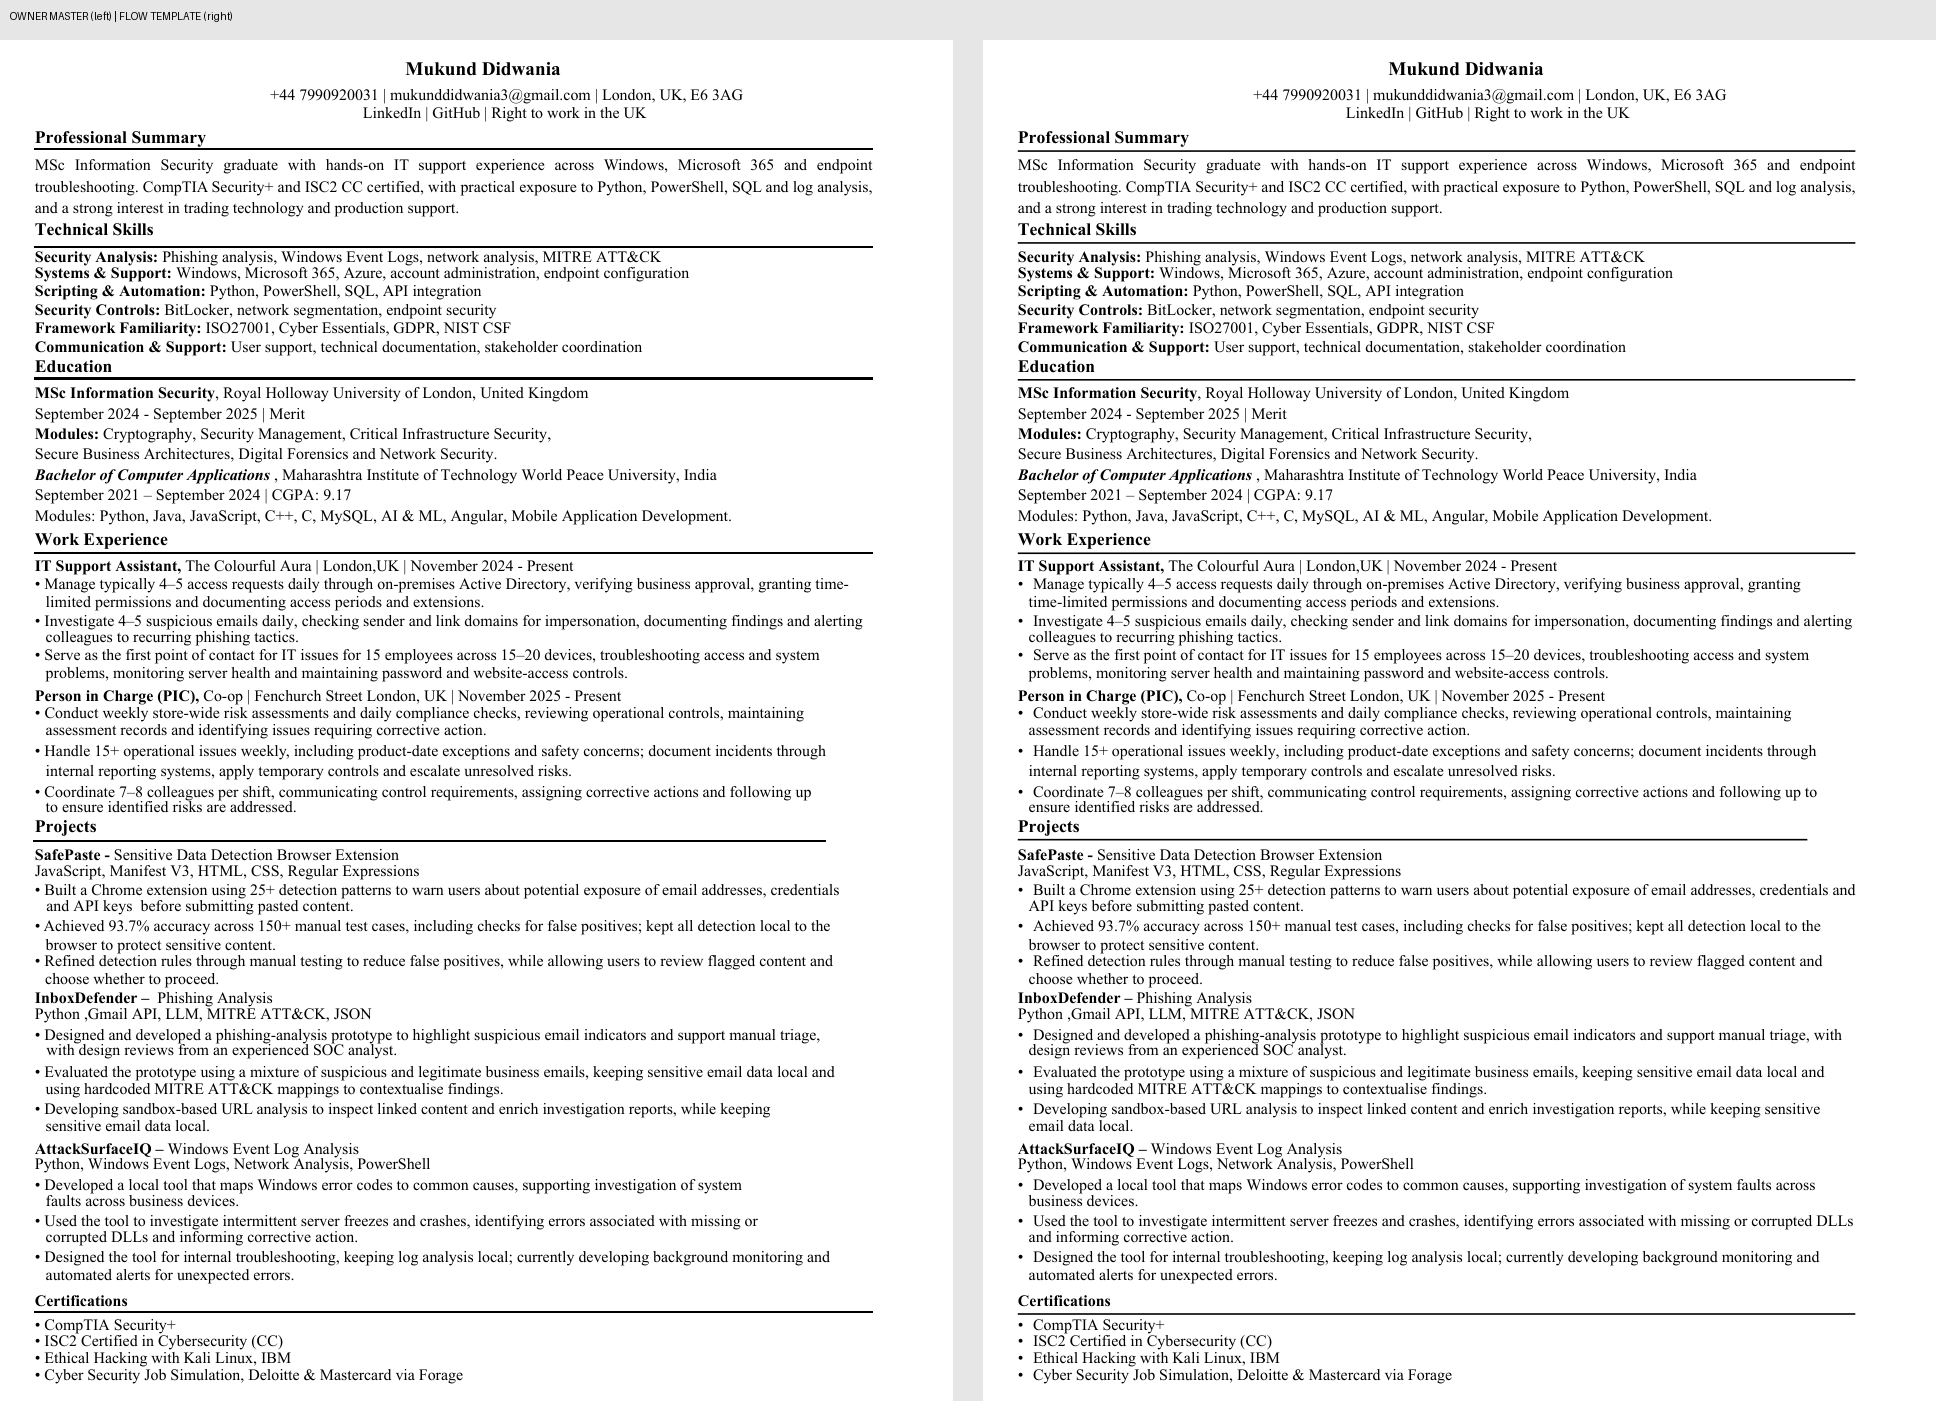
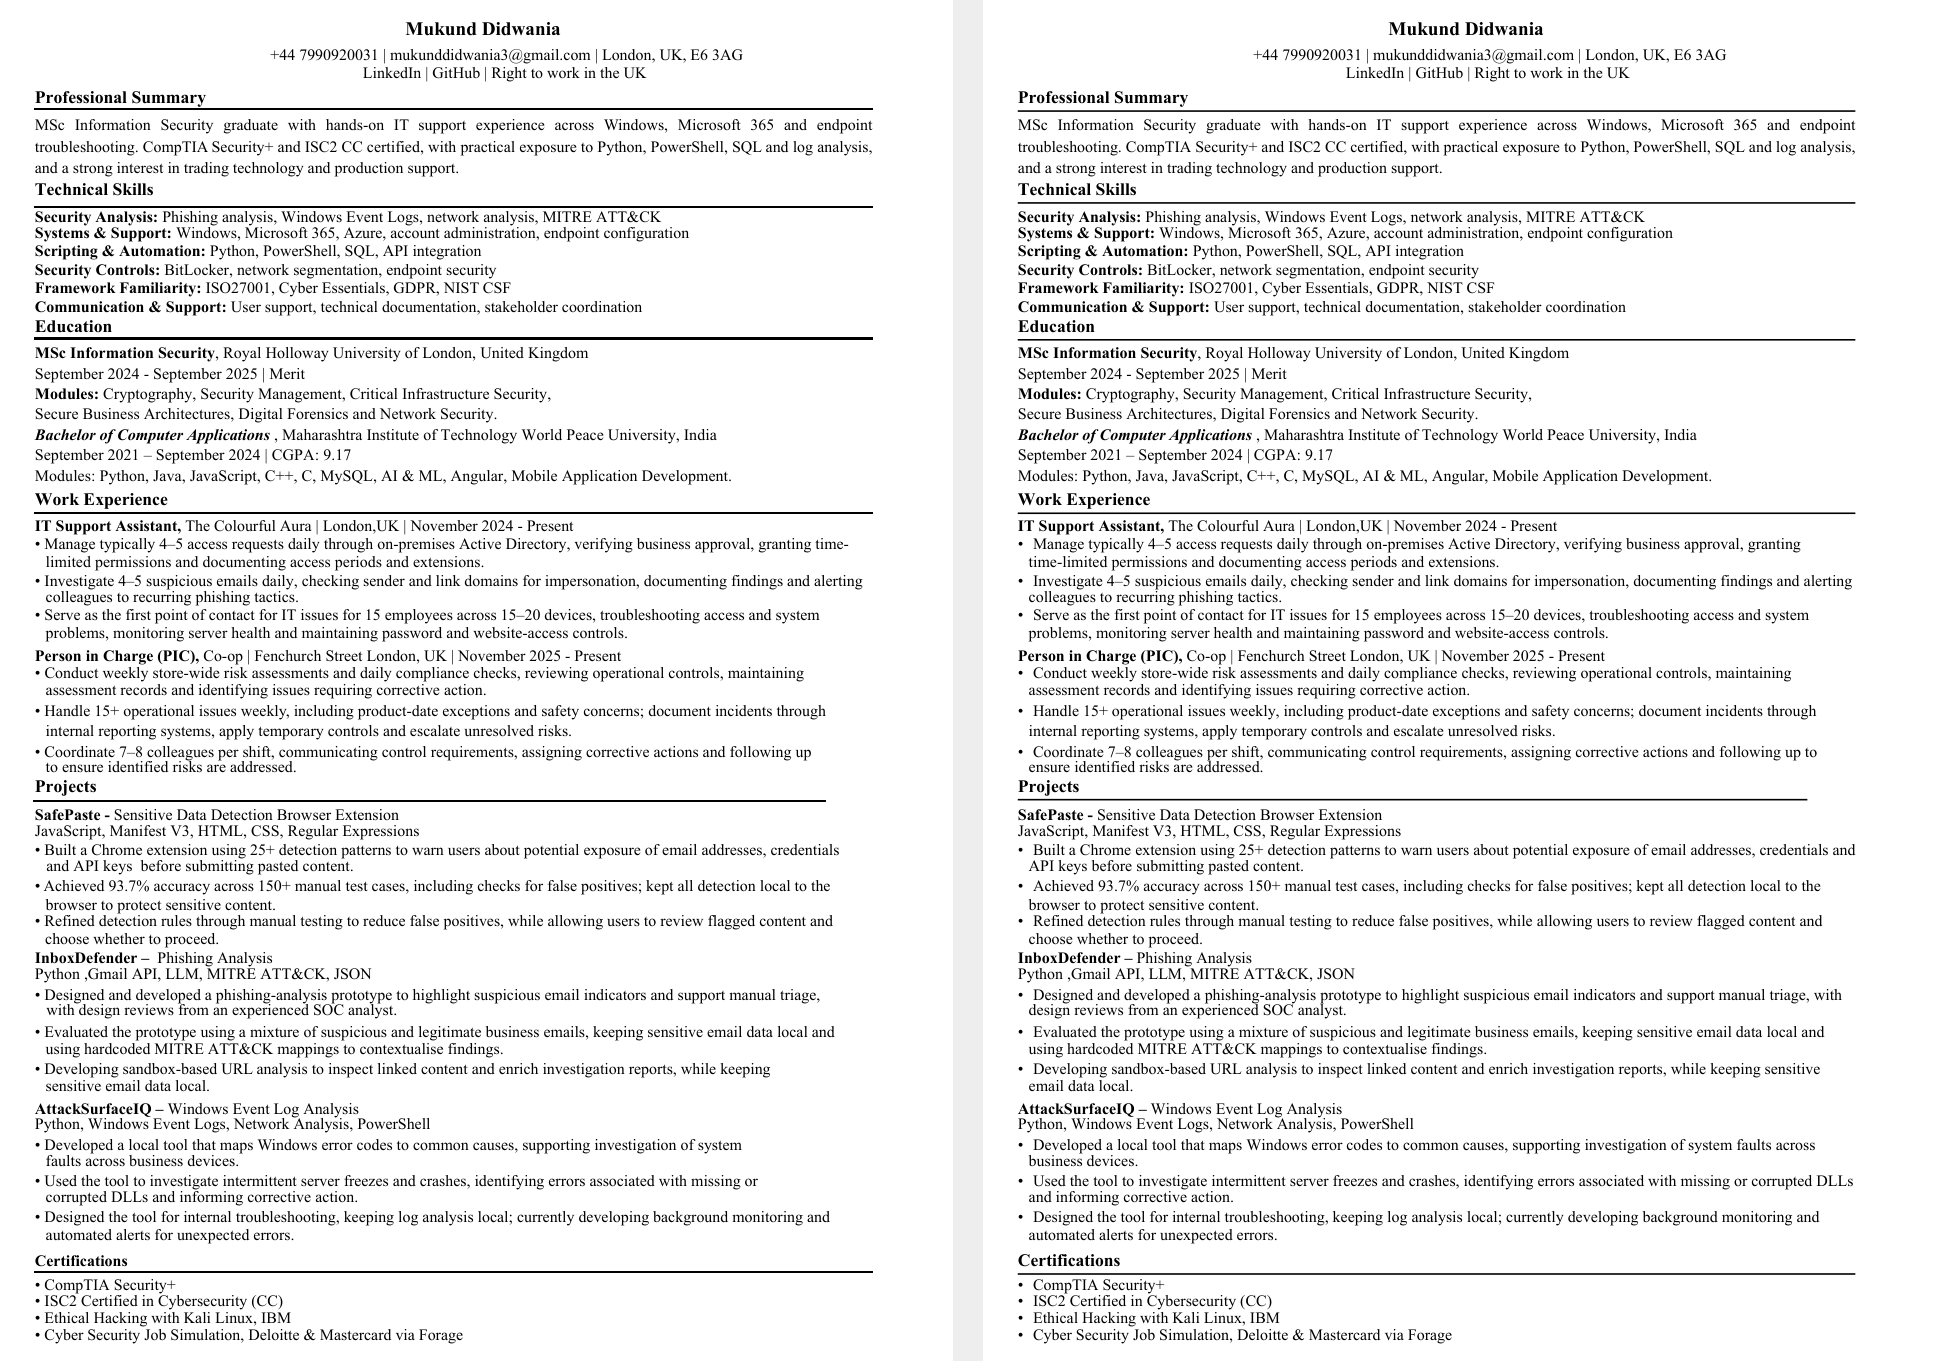
fix(cv): standardize all section headings to 11 point bold

Changed region(s): [[0.0, 0.0, 1.0, 0.9875]]

diff --git a/career-ops/cv-template-prototype/extract_template.py b/career-ops/cv-template-prototype/extract_template.py
@@ -38,7 +38,7 @@ for ss in lines:
                      'style':'bold_italic' if 'BoldItal' in s['font'] else 'bold' if 'Bold' in s['font'] else 'normal'})
     slots.append({'id':f's{len(slots):02d}', 'section':section,'text':text,
                   'runs':runs,'heading':heading,'bullet':bullet,
-                  'font_size':round(ss[0]['size'],2), 'baseline':ss[0]['origin'][1],
+                  'font_size':11.0 if heading else round(ss[0]['size'],2), 'baseline':ss[0]['origin'][1],
                   'x':ss[0]['origin'][0], 'source_baselines':[ss[0]['origin'][1]],
                   'variable': section in ['Professional Summary','Technical Skills','Work Experience','Projects'] and not heading and (bullet or section in ['Professional Summary','Technical Skills'])})
 for i,s in enumerate(slots):
@@ -51,7 +51,8 @@ for i,s in enumerate(slots):
         if s['text'].startswith('Modules: '):
             s['runs']=[{'text':'Modules: ','style':'bold'},{'text':s['text'][9:],'style':'normal'}]
         else: s['runs']=[{'text':s['text'],'style':'normal'}]
-layout={'version':1,'status':'PROTOTYPE_NOT_DEPLOYED','master_sha256':hashlib.sha256(SOURCE.read_bytes()).hexdigest(),
+layout={'version':2,'status':'PROTOTYPE_NOT_DEPLOYED','master_sha256':hashlib.sha256(SOURCE.read_bytes()).hexdigest(),
+        'heading_policy':'All six section headings: exactly 11 pt Times New Roman Bold, owner requested 2026-10-09',
         'master_source':'source-master.pdf','page':[595.5,850.5], 'fonts':{'normal':'times.ttf','bold':'timesbd.ttf','italic':'timesi.ttf','bold_italic':'timesbi.ttf'},
         'section_order':headings,'slots':slots,'target_seconds':120,'hard_seconds':180,
         'max_generation_calls':2,'max_renders':2,

diff --git a/career-ops/cv-template-prototype/test_cv_template.py b/career-ops/cv-template-prototype/test_cv_template.py
@@ -130,3 +130,10 @@ def test_summary_credentials_cannot_be_omitted(credential):
     content=resolve_plan({'selections':{key:'engineering' for key in bank['slots']}})
     content['s04']['text']=content['s04']['text'].replace(credential,'')
     assert any(f['reason']=='mandatory summary credential missing' for f in cv.content_check(cv.load_layout(),content))
+
+def test_all_section_headings_exactly_eleven_points(tmp_path):
+    layout=cv.load_layout(); assert all(s['font_size']==11.0 for s in layout['slots'] if s['heading'])
+    p=tmp_path/'headings.pdf';cv.render(layout,{},p)
+    found=[s for b in fitz.open(p)[0].get_text('dict')['blocks'] for l in b.get('lines',[]) for s in l['spans'] if s['text'].strip() in layout['section_order']]
+    assert len(found)==6
+    assert all(abs(s['size']-11.0)<.001 and 'Bold' in s['font'] for s in found)

diff --git a/career-ops/cv-template-prototype/README.md b/career-ops/cv-template-prototype/README.md
@@ -14,6 +14,11 @@ MSc Information Security, CompTIA Security+ and ISC2 Certified in Cybersecurity
 The Allstate summary was updated locally with these credentials foregrounded;
 no additional provider call was necessary. The approved layout remains intact.
 
+Owner typography revision: all six section headings are standardized to exactly
+11 pt Times New Roman Bold (layout v2). This deliberately supersedes the supplied
+PDF's varying heading sizes, including its smaller Certifications heading.
+The source PDFs remain unchanged; body/role/name font sizes remain unchanged.
+
 ## Corrected source
 
 The owner superseded the previous CV_FORMAT_MASTER.pdf with
